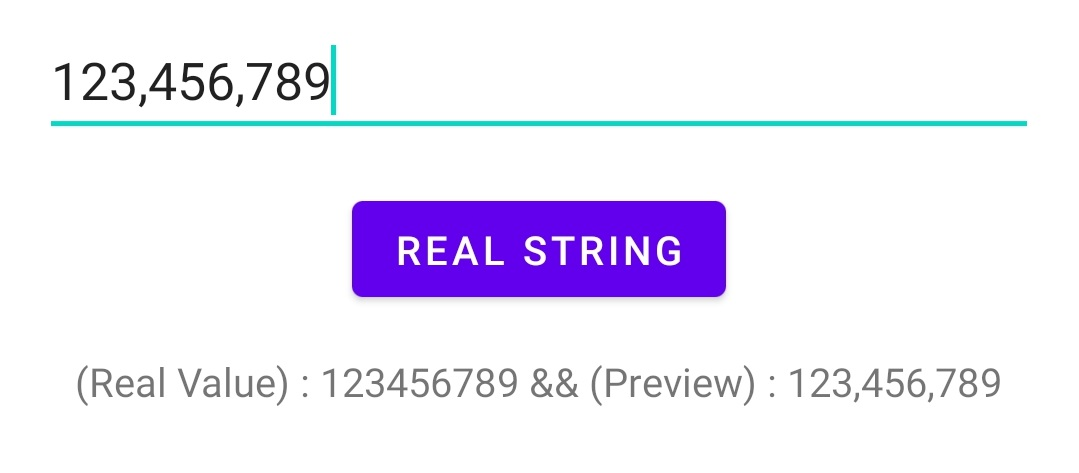
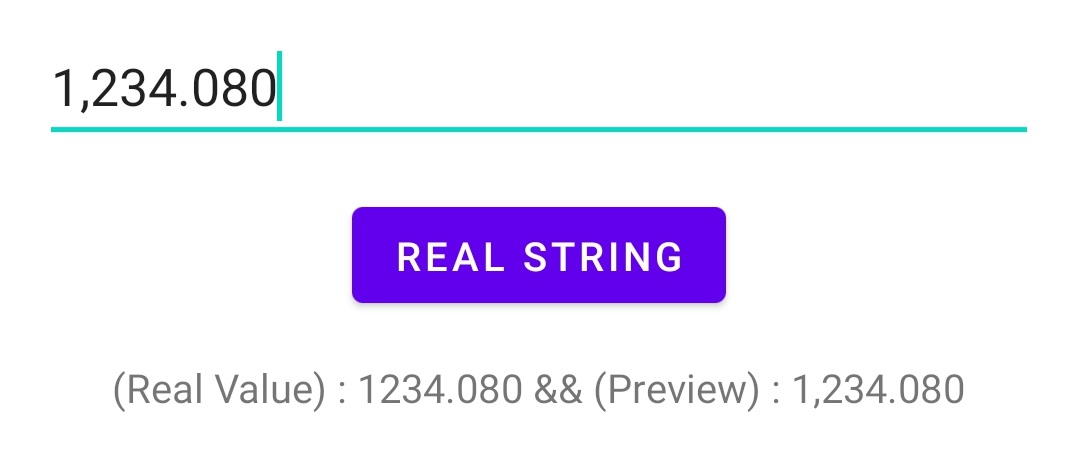
bug double dot

diff --git a/app/src/main/java/com/gzeinnumer/edittextcurrency/MainActivity.java b/app/src/main/java/com/gzeinnumer/edittextcurrency/MainActivity.java
@@ -29,8 +29,8 @@ public class MainActivity extends AppCompatActivity {
         button = findViewById(R.id.button);
         textView = findViewById(R.id.textView);
 
-        sample1();
-//        sample3();
+//        sample1();
+        sample3();
     }
 
     private void sample1() {
@@ -41,7 +41,6 @@ public class MainActivity extends AppCompatActivity {
             public void onClick(View v) {
                 String str = editText.getText().toString();
                 Log.d(TAG, "onClick: " + StringTools.trimCommaOfString(str));
-
 
                 textView.setText(StringTools.trimCommaOfString(str));
             }

diff --git a/etc/src/main/java/com/gzeinnumer/etc/utils/CurrencyConverter.java b/etc/src/main/java/com/gzeinnumer/etc/utils/CurrencyConverter.java
@@ -15,10 +15,7 @@ public class CurrencyConverter implements TextWatcher {
     private static final int MAX_LENGTH = 100;
     private static final int MAX_DECIMAL = 3;
     private final EditText editText;
-//    private String previousCleanString;
-    //    private String prefix = "";
-//    private static String sSrefix = "";
-    StringCallBack stringCallBack;
+    private StringCallBack stringCallBack;
 
     private static String trimCommaOfString(String string) {
         if (string.contains(",")) {

diff --git a/README.md b/README.md
@@ -1,5 +1,5 @@
 <p align="center">
-  <img src="https://github.com/gzeinnumer/EditTextCurrency/blob/master/preview/example12.jpg" width="400"/>
+  <img src="https://github.com/gzeinnumer/EditTextCurrency/blob/master/preview/example1.jpg" width="400"/>
 </p>
 
 <h1 align="center">
@@ -7,7 +7,7 @@
 </h1>
 
 <p align="center">
-    <a><img src="https://img.shields.io/badge/Version-5.1.0-brightgreen.svg?style=flat"></a>
+    <a><img src="https://img.shields.io/badge/Version-5.2.0-brightgreen.svg?style=flat"></a>
     <a><img src="https://img.shields.io/badge/ID-gzeinnumer-blue.svg?style=flat"></a>
     <a><img src="https://img.shields.io/badge/Java-Suport-green?logo=java&style=flat"></a>
     <a><img src="https://img.shields.io/badge/Kotlin-Suport-green?logo=kotlin&style=flat"></a>
@@ -66,14 +66,6 @@ dependencies {
 ```
 
 #
-### CurrencyConverter Programatically.
-
-**Note** `RP 123,456,789.111` To Remove `Prefix` `RP` and symbol `,` you can use this :
-```java
-StringTools.trimCommaOfString(str, "RP ");
-```
-
-#
 * **Sample 1** -> Simple `TextWacher`
 ```java
 editText.addTextChangedListener(new CurrencyConverter(editText));
@@ -82,8 +74,7 @@ button.setOnClickListener(new View.OnClickListener() {
     @Override
     public void onClick(View v) {
         String str = editText.getText().toString();
-        Log.d(TAG, "onClick: "+ StringTools.trimCommaOfString(str, "RP "));
-        Log.d(TAG, "onClick: "+editText.getText().toString());
+        Log.d(TAG, "onClick: " + StringTools.trimCommaOfString(str));
 
         textView.setText(StringTools.trimCommaOfString(str));
     }
@@ -96,50 +87,16 @@ button.setOnClickListener(new View.OnClickListener() {
 editText.addTextChangedListener(new CurrencyConverter(editText, new CurrencyConverter.StringCallBack() {
     @Override
     public void realString(String value) {
-        Log.d(TAG, "realString: "+value);
-        Log.d(TAG, "realString: "+editText.getText().toString());
-
-        textView.setText("(Real Value) : "+value + " && (Preview) : "+editText.getText().toString());
-    }
-}));
-```
-
-#
-* **Sample 3** -> Simple `TextWacher` With `Prefix`
-```java
-editText.addTextChangedListener(new CurrencyConverter(editText, "RP "));
-
-button.setOnClickListener(new View.OnClickListener() {
-    @Override
-    public void onClick(View v) {
-        String str = editText.getText().toString();
-        Log.d(TAG, "onClick: "+StringTools.trimCommaOfString(str));
-        Log.d(TAG, "onClick: "+editText.getText().toString());
-
-        textView.setText(StringTools.trimCommaOfString(str));
-    }
-});
-```
-
-#
-* **Sample 4** -> Simple `TextWacher` With `Prefix` And `CallBack`
-```java
-editText.addTextChangedListener(new CurrencyConverter(editText, "RP " ,new CurrencyConverter.StringCallBack() {
-    @Override
-    public void realString(String value) {
-        Log.d(TAG, "realString: "+value);
-        Log.d(TAG, "realString: "+editText.getText().toString());
-
-        textView.setText("(Real Value) : "+value + " && (Preview) : "+editText.getText().toString());
+        textView.setText("(Real Value) : " + value + " && (Preview) : " + editText.getText().toString());
     }
 }));
 ```
 
 #
 Preview For **Sample 1-4**:
-|<img src="https://github.com/gzeinnumer/EditTextCurrency/blob/master/preview/example1.jpg" width="400"/>|<img src="https://github.com/gzeinnumer/EditTextCurrency/blob/master/preview/example2.jpg" width="400"/>|
-|---|---|
-|**Sample 1 & 2**|**Sample 3 & 4**|
+|<img src="https://github.com/gzeinnumer/EditTextCurrency/blob/master/preview/example1.jpg" width="400"/>|
+|---|
+|**Sample 1**|
 
 ---
 # Example Code/App
@@ -162,6 +119,8 @@ Preview For **Sample 1-4**:
   - Bug Fixing
 - **5.1.0**
   - Take Out CurrencyEditText & CurrencyEditTextFilledBox & CurrencyEditTextOutlinedBox
+- **5.2.0**
+  - More Simple
 
 ---
 # Contribution
